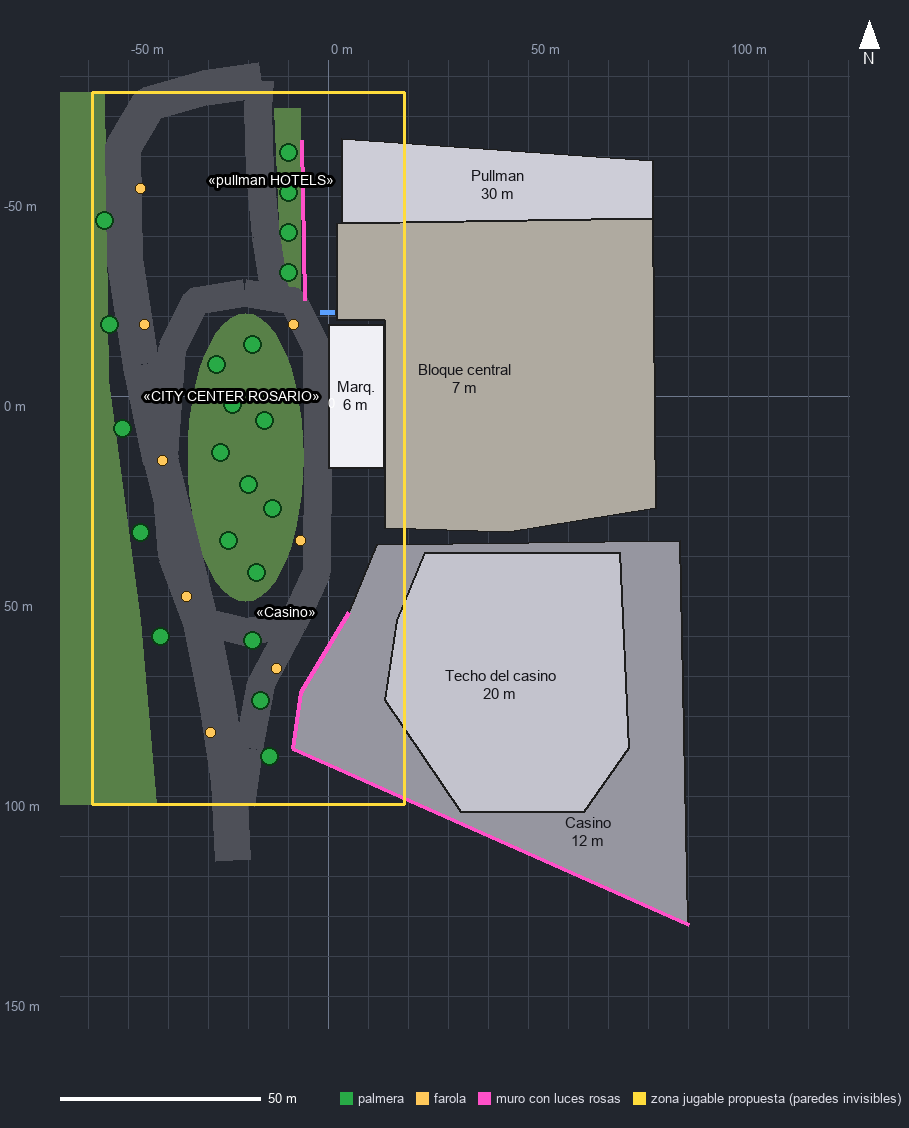
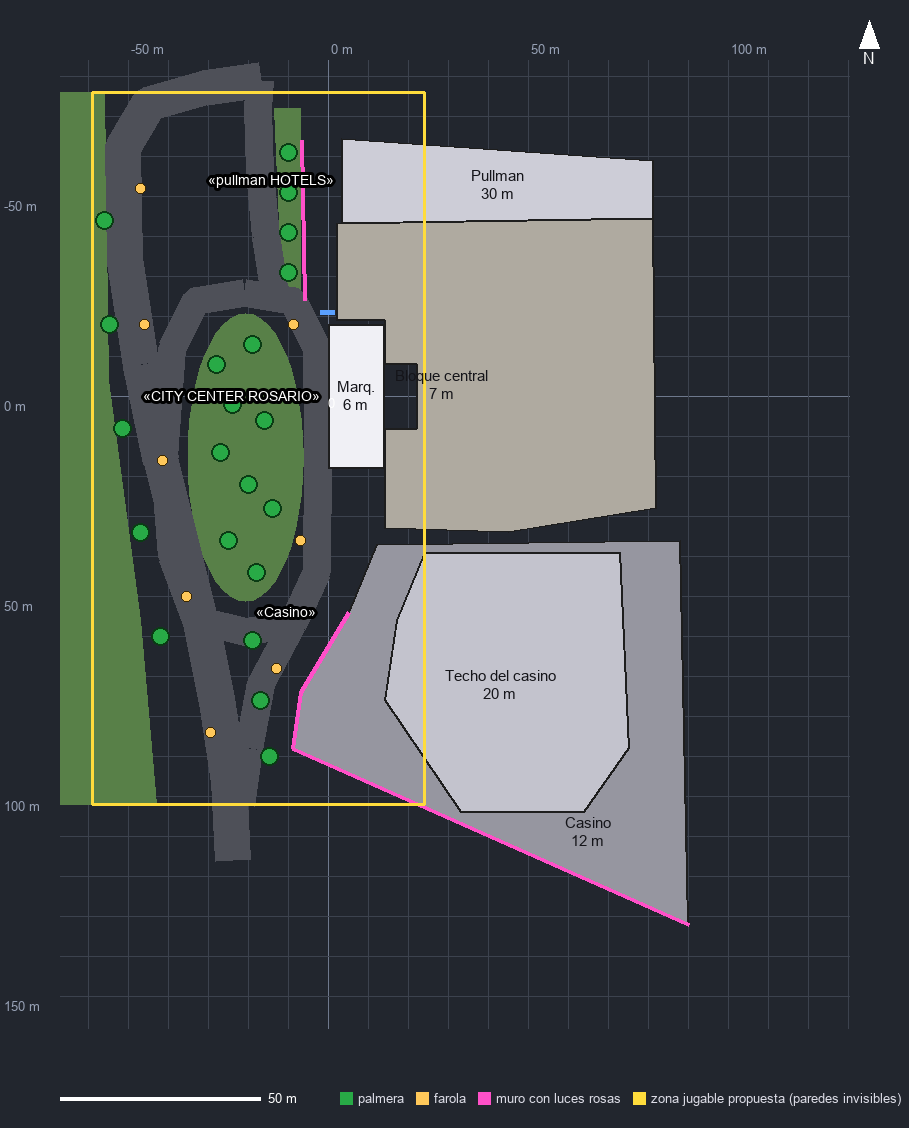
Entrada con hall y puertas, reflector del muro y placas en los bloques
- Entrada bajo la marquesina: vidriera alta y un hall de verdad (piso,
  cielorraso iluminado, mostrador redondo, luz cálida) con dos puertas
  corredizas que se abren al acercarse (src/escenario/entrada.ts).
- La luz que tiñe al personaje es un reflector apoyado en el muro que lo
  apunta: ya no deja un foco en la pared.
- Bloque central, casino y su techo con las placas de piedra de los muros.

Changed region(s): [[0.4004, 0.0931, 0.5545, 0.7137]]

diff --git a/src/escenario/entrada.ts b/src/escenario/entrada.ts
@@ -1,0 +1,187 @@
+import * as THREE from 'three';
+import { caraVidriera } from './hotel';
+
+// La entrada bajo la marquesina, como en la foto de día: una vidriera alta de punta a punta y, en el
+// medio, un hall de verdad detrás del vidrio (piso de piedra, cielorraso iluminado, el mostrador
+// redondo de recepción), con dos puertas corredizas que se abren solas cuando el jugador se acerca.
+// Se puede entrar al hall. El bloque central tiene la muesca del hall en el plano (city-center.json).
+
+const VIDRIO = { color: 0x9fb4c8, opacidad: 0.2 };
+const MARCO = 0x5d6066;
+const PUERTA = { ancho: 2.4, alto: 2.8, corre: 1.1, abre: 3.5, velocidad: 3 };
+const TRAVESAÑO = 3.4;
+const CIELORRASO = 4.5;
+const MODULO = 2; // entre parantes
+
+export interface Entrada {
+  /** Dónde está la fachada (x) y de dónde a dónde va (z). */
+  x: number;
+  desde: number;
+  hasta: number;
+  alto: number;
+  /** El hall, en el medio: de dónde a dónde (z) y cuánto se mete (x). */
+  hall: { desde: number; hasta: number; fondo: number };
+}
+
+interface Puerta {
+  z: number;
+  hojas: THREE.Object3D[];
+  abierta: number;
+}
+
+/** Un rectángulo (x, z) como polígono de choque. */
+function caja(x0: number, x1: number, z0: number, z1: number): THREE.Vector2[] {
+  return [new THREE.Vector2(x0, z0), new THREE.Vector2(x1, z0), new THREE.Vector2(x1, z1), new THREE.Vector2(x0, z1)];
+}
+
+export function armarEntrada(e: Entrada) {
+  const grupo = new THREE.Group();
+  const solidos: THREE.Object3D[] = [];
+  const transparentes: THREE.Object3D[] = [];
+  const paredes: THREE.Vector2[][] = [];
+  const marco = new THREE.MeshStandardMaterial({ color: MARCO, metalness: 0.6, roughness: 0.4 });
+  const vidrio = new THREE.MeshStandardMaterial({
+    color: VIDRIO.color, transparent: true, opacity: VIDRIO.opacidad, roughness: 0.05, metalness: 0.2, depthWrite: false, side: THREE.DoubleSide,
+  });
+  const barra = (x: number, y: number, z: number, ax: number, ay: number, az: number) => {
+    const b = new THREE.Mesh(new THREE.BoxGeometry(ax, ay, az), marco);
+    b.position.set(x, y, z);
+    b.castShadow = true;
+    grupo.add(b);
+    return b;
+  };
+
+  // A los costados del hall, vidriera con el bloque detrás (pintada, con la luz de adentro).
+  for (const [z0, z1] of [[e.desde, e.hall.desde], [e.hall.hasta, e.hasta]]) {
+    const ancho = z1 - z0;
+    const tx = caraVidriera(ancho, e.alto);
+    const cara = new THREE.Mesh(new THREE.PlaneGeometry(ancho, e.alto), new THREE.MeshStandardMaterial({ ...tx, emissive: 0xffffff, roughness: 0.6 }));
+    cara.rotation.y = -Math.PI / 2; // de cara a la calle (-x)
+    cara.position.set(e.x - 0.03, e.alto / 2, (z0 + z1) / 2);
+    cara.receiveShadow = true;
+    grupo.add(cara);
+  }
+
+  // El hall: piso, cielorraso con luz, el bloque encima (la muesca dejaba el techo abierto), la pared
+  // del fondo y el mostrador redondo.
+  const { desde: h0, hasta: h1, fondo } = e.hall;
+  const xFondo = e.x + fondo;
+  const anchoHall = h1 - h0;
+  const medio = (h0 + h1) / 2;
+  const piso = new THREE.Mesh(new THREE.PlaneGeometry(fondo, anchoHall), new THREE.MeshStandardMaterial({ color: 0xd9d3c8, roughness: 0.35 }));
+  piso.rotation.x = -Math.PI / 2;
+  piso.position.set(e.x + fondo / 2, 0.015, medio);
+  piso.receiveShadow = true;
+  grupo.add(piso);
+  const cielo = new THREE.Mesh(new THREE.PlaneGeometry(fondo, anchoHall), new THREE.MeshStandardMaterial({
+    color: 0xf3ead8, emissive: 0xffe2b0, emissiveIntensity: 0.55,
+  }));
+  cielo.rotation.x = Math.PI / 2; // mirando para abajo
+  cielo.position.set(e.x + fondo / 2, CIELORRASO, medio);
+  grupo.add(cielo);
+  const encima = new THREE.Mesh(new THREE.BoxGeometry(fondo, e.alto - CIELORRASO, anchoHall), new THREE.MeshStandardMaterial({ color: 0xa9a59c, roughness: 0.9 }));
+  encima.position.set(e.x + fondo / 2, (CIELORRASO + e.alto) / 2 + 0.001, medio);
+  encima.castShadow = true;
+  grupo.add(encima);
+  const fondoMat = new THREE.MeshStandardMaterial({ color: 0xa8774a, emissive: 0x6b3f1c, emissiveIntensity: 0.35, roughness: 0.7 });
+  const paredFondo = new THREE.Mesh(new THREE.PlaneGeometry(anchoHall, CIELORRASO), fondoMat);
+  paredFondo.rotation.y = -Math.PI / 2;
+  paredFondo.position.set(xFondo - 0.02, CIELORRASO / 2, medio);
+  grupo.add(paredFondo);
+  solidos.push(paredFondo);
+  const mostrador = new THREE.Mesh(new THREE.CylinderGeometry(1.7, 1.7, 1.1, 40), new THREE.MeshStandardMaterial({ color: 0xf1efe9, roughness: 0.4 }));
+  mostrador.position.set(e.x + fondo * 0.6, 0.55, medio);
+  mostrador.castShadow = mostrador.receiveShadow = true;
+  grupo.add(mostrador);
+  solidos.push(mostrador);
+  const borde = new THREE.Mesh(new THREE.TorusGeometry(1.72, 0.04, 8, 48), new THREE.MeshStandardMaterial({
+    color: 0xffd9a0, emissive: 0xffc070, emissiveIntensity: 1.2,
+  }));
+  borde.rotation.x = Math.PI / 2;
+  borde.position.set(mostrador.position.x, 1.1, medio);
+  grupo.add(borde);
+  // Una luz cálida adentro: ilumina al jugador en el hall y se derrama por el vidrio.
+  const luz = new THREE.PointLight(0xffd6a0, 40, 16, 2);
+  luz.position.set(e.x + fondo / 2, CIELORRASO - 0.4, medio);
+  grupo.add(luz);
+  const bordeMostrador = new THREE.Vector2(mostrador.position.x, medio);
+
+  // El frente del hall: vidrio de piso a techo entre parantes, con dos puertas corredizas.
+  const puertas: Puerta[] = [];
+  const zPuertas = [medio - 2, medio + 2];
+  const frente = new THREE.Mesh(new THREE.PlaneGeometry(anchoHall, e.alto - PUERTA.alto), vidrio);
+  frente.rotation.y = -Math.PI / 2;
+  frente.position.set(e.x, (PUERTA.alto + e.alto) / 2, medio);
+  grupo.add(frente);
+  transparentes.push(frente);
+  // Abajo, vidrio fijo salvo los vanos de las puertas.
+  const cortes = [h0, ...zPuertas.flatMap((z) => [z - PUERTA.ancho / 2, z + PUERTA.ancho / 2]), h1];
+  for (let i = 0; i < cortes.length; i += 2) {
+    const [z0, z1] = [cortes[i], cortes[i + 1]];
+    const fijo = new THREE.Mesh(new THREE.PlaneGeometry(z1 - z0, PUERTA.alto), vidrio);
+    fijo.rotation.y = -Math.PI / 2;
+    fijo.position.set(e.x, PUERTA.alto / 2, (z0 + z1) / 2);
+    grupo.add(fijo);
+    transparentes.push(fijo);
+    paredes.push(caja(e.x - 0.12, e.x + 0.12, z0, z1));
+  }
+  for (let z = h0; z <= h1 + 0.01; z += MODULO) {
+    if (zPuertas.some((zp) => Math.abs(z - zp) < PUERTA.ancho / 2 + 0.05)) continue;
+    barra(e.x, e.alto / 2, z, 0.12, e.alto, 0.08);
+  }
+  barra(e.x, PUERTA.alto + 0.04, medio, 0.14, 0.1, anchoHall);
+  barra(e.x, TRAVESAÑO + 1.2, medio, 0.12, 0.08, anchoHall);
+  barra(e.x, e.alto - 0.06, medio, 0.14, 0.12, anchoHall);
+  for (const zp of zPuertas) {
+    // Las jambas y dos hojas de vidrio con marco que corren hacia los costados.
+    barra(e.x, PUERTA.alto / 2, zp - PUERTA.ancho / 2, 0.14, PUERTA.alto, 0.1);
+    barra(e.x, PUERTA.alto / 2, zp + PUERTA.ancho / 2, 0.14, PUERTA.alto, 0.1);
+    const hojas = [-1, 1].map((lado) => {
+      const hoja = new THREE.Group();
+      const ancho = PUERTA.ancho / 2;
+      const cristal = new THREE.Mesh(new THREE.PlaneGeometry(ancho - 0.08, PUERTA.alto - 0.1), vidrio);
+      cristal.rotation.y = -Math.PI / 2;
+      hoja.add(cristal);
+      transparentes.push(cristal);
+      for (const [y, h] of [[PUERTA.alto / 2 - 0.03, 0.06], [-PUERTA.alto / 2 + 0.05, 0.1]] as const) {
+        const b = new THREE.Mesh(new THREE.BoxGeometry(0.06, h, ancho), marco);
+        b.position.y = y;
+        hoja.add(b);
+      }
+      for (const dz of [-ancho / 2 + 0.03, ancho / 2 - 0.03]) {
+        const b = new THREE.Mesh(new THREE.BoxGeometry(0.06, PUERTA.alto, 0.06), marco);
+        b.position.z = dz;
+        hoja.add(b);
+      }
+      hoja.position.set(e.x - 0.08, PUERTA.alto / 2, zp + (lado * ancho) / 2);
+      hoja.userData.cerrada = hoja.position.z;
+      hoja.userData.lado = lado;
+      grupo.add(hoja);
+      return hoja;
+    });
+    puertas.push({ z: zp, hojas, abierta: 0 });
+  }
+
+  let antes = -1;
+  return {
+    grupo, solidos, transparentes,
+    /** Las paredes fijas del frente (las del hall son las de la muesca del bloque, en el plano). */
+    paredes,
+    /** Cada cuadro: las puertas se abren con el jugador cerca y se cierran cuando se va. */
+    actualizar(t: number, jugador: THREE.Vector3): void {
+      const dt = antes < 0 ? 0 : Math.min(0.1, t - antes);
+      antes = t;
+      for (const p of puertas) {
+        const cerca = Math.hypot(jugador.x - e.x, jugador.z - p.z) < PUERTA.abre;
+        p.abierta = THREE.MathUtils.clamp(p.abierta + (cerca ? 1 : -1) * dt * PUERTA.velocidad, 0, 1);
+        const corre = THREE.MathUtils.smootherstep(p.abierta, 0, 1) * PUERTA.corre;
+        for (const h of p.hojas) h.position.z = h.userData.cerrada + h.userData.lado * corre;
+      }
+    },
+    /** Si (x, z) choca con el mostrador o con una puerta que no está bien abierta. */
+    bloquea(x: number, z: number, radio: number): boolean {
+      if (Math.hypot(x - bordeMostrador.x, z - bordeMostrador.y) < 1.7 + radio) return true;
+      return puertas.some((p) => p.abierta < 0.8 && Math.abs(x - e.x) < 0.12 + radio && Math.abs(z - p.z) < PUERTA.ancho / 2 + radio);
+    },
+  };
+}

diff --git a/src/escenario/muros.ts b/src/escenario/muros.ts
@@ -19,11 +19,13 @@ const AURA = { tamaño: 7.5, fuerza: 0.85 };
 // Sin pasar de 1: más brillantes, el tono mapeado los lavaba hacia el blanco.
 const COLORES = { rosa: new THREE.Color(1, 0.08, 0.58), purpura: new THREE.Color(0.55, 0.04, 1), brillo: 1 };
 const RITMO = { desde: 6, hasta: 18 };
-// Las luces no iluminan (son cientos): una sola luz de verdad por muro va pegada al jugador, del lado
-// del muro, con el color y la fuerza de las luces del punto del muro más cerca de él, y se apaga a
-// medida que se aleja (a `lejos` metros del muro ya no está). Puesta contra el muro le dejaba un foco
-// encima que no se sabía de dónde salía.
-const REFLEJO = { alcance: 3, fuerza: 0.7, distancia: 4, alLado: 0.7, alto: 1.3, lejos: 6 };
+// Las luces no iluminan (son cientos): una sola luz de verdad por muro, un reflector apoyado en el muro
+// en el punto más cerca del jugador que lo apunta a él, con el color y la fuerza de las luces de ahí.
+// Ilumina al personaje y el piso delante, nunca la pared (queda detrás del reflector): una luz que
+// rodeaba al jugador le dejaba un foco a la pared cuando él se le acercaba. Se apaga a medida que el
+// jugador se aleja (a `lejos` metros ya no está); la fuerza crece con la distancia para que a él le
+// llegue lo mismo.
+const REFLEJO = { alcance: 3, fuerza: 0.7, distancia: 9, afuera: 0.15, alto: 1.4, pecho: 1.1, lejos: 6, cerca: 0.7 };
 // Las luces son discos: cilindros chatos con la cara hacia afuera del muro, medio metidos en él, cada
 // uno dentro de un aro del material del muro que sobresale más que el disco (la luz queda contenida).
 const DISCO = { espesor: 0.07 };
@@ -106,8 +108,9 @@ function azar(semilla: number): () => number {
   };
 }
 
-/** Placas de piedra con juntas, para repetir cada PLACA. */
-function texturaPlacas(): THREE.CanvasTexture {
+/** Placas de piedra con juntas, para repetir cada PLACA. Con `porMetro`, ya escalada para
+ * coordenadas de textura en metros (las de los bloques extruidos). */
+export function texturaPlacas(porMetro = false): THREE.CanvasTexture {
   const w = 192;
   const h = 96;
   const c = document.createElement('canvas');
@@ -123,6 +126,7 @@ function texturaPlacas(): THREE.CanvasTexture {
   t.colorSpace = THREE.SRGBColorSpace;
   t.wrapS = t.wrapT = THREE.RepeatWrapping;
   t.anisotropy = 8;
+  if (porMetro) t.repeat.set(1 / PLACA.ancho, 1 / PLACA.alto);
   return t;
 }
 
@@ -255,8 +259,9 @@ export function armarMuro(m: Muro): {
     vel: (Math.PI * 2) / THREE.MathUtils.lerp(RITMO.desde, RITMO.hasta, r()), fase: r() * Math.PI * 2,
   }));
   const tinte = new THREE.Color();
-  const reflejo = new THREE.PointLight(COLORES.rosa, 0, REFLEJO.distancia, 2);
-  grupo.add(reflejo);
+  const reflejo = new THREE.SpotLight(COLORES.rosa, 0, REFLEJO.distancia, 0.7, 1, 2);
+  grupo.add(reflejo, reflejo.target);
+  let normalCerca = new THREE.Vector2(1, 0);
   const cerca = new THREE.Vector3();
   const mezcla = new THREE.Color();
   const animar = (t: number, jugador?: THREE.Vector3) => {
@@ -272,6 +277,7 @@ export function armarMuro(m: Muro): {
         if (d < mejor) {
           mejor = d;
           cerca.set(q.x, 0, q.y);
+          normalCerca = ns[i - 1].clone().lerp(ns[i], u).normalize();
         }
       }
     }
@@ -296,13 +302,12 @@ export function armarMuro(m: Muro): {
     auras.instanceColor = luces.instanceColor;
     if (peso > 0 && jugador && mejor < REFLEJO.lejos) {
       reflejo.color.setRGB(mezcla.r / peso, mezcla.g / peso, mezcla.b / peso);
-      // Al lado del jugador, hacia el muro.
-      const hacia = new THREE.Vector3(cerca.x - jugador.x, 0, cerca.z - jugador.z);
-      const largo = hacia.length();
-      if (largo > 1e-3) hacia.multiplyScalar(Math.min(REFLEJO.alLado, largo * 0.5) / largo);
-      reflejo.position.set(jugador.x + hacia.x, jugador.y + REFLEJO.alto, jugador.z + hacia.z);
+      // En el muro (apenas por fuera), apuntando al pecho del jugador.
+      reflejo.position.set(cerca.x - normalCerca.x * REFLEJO.afuera, jugador.y + REFLEJO.alto, cerca.z - normalCerca.y * REFLEJO.afuera);
+      reflejo.target.position.set(jugador.x, jugador.y + REFLEJO.pecho, jugador.z);
+      const hasta = Math.max(REFLEJO.cerca, reflejo.position.distanceTo(reflejo.target.position));
       const lejania = 1 - mejor / REFLEJO.lejos;
-      reflejo.intensity = REFLEJO.fuerza * Math.min(peso, 6) * lejania * lejania;
+      reflejo.intensity = REFLEJO.fuerza * Math.min(peso, 6) * (hasta * hasta) / (REFLEJO.cerca * REFLEJO.cerca) * lejania * lejania;
     } else {
       reflejo.intensity = 0;
     }

diff --git a/src/escenario/cityCenter.ts b/src/escenario/cityCenter.ts
@@ -2,7 +2,8 @@ import * as THREE from 'three';
 import plano from './city-center.json';
 import { letrasEnRelieve } from './letras';
 import { armarHotel } from './hotel';
-import { armarMuro, profundidadAuras } from './muros';
+import { armarMuro, profundidadAuras, texturaPlacas } from './muros';
+import { armarEntrada } from './entrada';
 
 // La maqueta del City Center Rosario: bloques grises a escala real armados con el plano
 // (city-center.json, calcado del satélite; tools/plano/dibujar.py lo dibuja). Sirve para caminarlo y
@@ -116,6 +117,7 @@ export class CityCenter {
   private readonly paredes: THREE.Vector2[][] = [];
   private readonly postes: { p: THREE.Vector2; r: number }[] = [];
   private readonly zona: THREE.Vector2[];
+  private readonly entrada: ReturnType<typeof armarEntrada>;
 
   constructor() {
     const mat = (color: number) => new THREE.MeshStandardMaterial({ color, roughness: 0.95 });
@@ -142,6 +144,7 @@ export class CityCenter {
       this.grupo.add(cinta(c.eje_px.map(m), c.ancho, !!c.cerrada, 0.04, asfalto));
     }
 
+    const placas = texturaPlacas(true);
     const colores: Record<string, number> = {
       hotel: 0xc9c9d2, deck: 0xa9a59c, marquesina: 0xeeeef2, casino: 0x96969f, techo_casino: 0xbdbdc8,
     };
@@ -149,7 +152,9 @@ export class CityCenter {
     for (const e of plano.edificios as Edificio[]) altos.set(e.id, e.alto);
     for (const e of plano.edificios as Edificio[]) {
       const puntos = e.poligono_px.map(m);
+      // Con las placas de piedra de los muros (las coordenadas de textura de la extrusión van en metros).
       const material = mat(colores[e.id] ?? 0xaaaaaa);
+      if (!e.techo) material.map = placas;
       if (e.techo) {
         this.marquesina(puntos, e.alto, material);
         continue;
@@ -167,6 +172,17 @@ export class CityCenter {
       this.solidos.push(malla);
       if (!e.sobre) this.paredes.push(puntos);
     }
+
+    // La entrada: la vidriera bajo la marquesina y el hall con sus puertas.
+    const en = plano.entrada;
+    this.entrada = armarEntrada({
+      x: m([en.x_px, 0]).x, desde: m([0, en.desde_px]).y, hasta: m([0, en.hasta_px]).y, alto: en.alto,
+      hall: { desde: m([0, en.hall_px.desde]).y, hasta: m([0, en.hall_px.hasta]).y, fondo: (en.hall_px.fondo - en.x_px) * ESC },
+    });
+    this.grupo.add(this.entrada.grupo);
+    this.solidos.push(...this.entrada.solidos);
+    this.transparentes.push(...this.entrada.transparentes);
+    this.paredes.push(...this.entrada.paredes);
 
     // Los muros blancos con luces rosas (la base del hotel y el frente del casino).
     plano.muros_luces.forEach((mu, k) => {
@@ -340,12 +356,14 @@ export class CityCenter {
   /** Cada cuadro, con el tiempo en segundos y dónde está el jugador (las luces de los muros y su reflejo). */
   actualizar(t: number, jugador: THREE.Vector3): void {
     for (const animar of this.animaciones) animar(t, jugador);
+    this.entrada.actualizar(t, jugador);
   }
 
   /** Si el jugador puede pararse en (x, z): dentro de la zona y fuera de edificios, palmeras y postes. */
   libre(x: number, z: number): boolean {
     const p = new THREE.Vector2(x, z);
     if (!dentro(p, this.zona) || distanciaBorde(p, this.zona) < RADIO_JUGADOR) return false;
+    if (this.entrada.bloquea(x, z, RADIO_JUGADOR)) return false;
     for (const pared of this.paredes) {
       if (dentro(p, pared) || distanciaBorde(p, pared) < RADIO_JUGADOR) return false;
     }

diff --git a/src/escenario/hotel.ts b/src/escenario/hotel.ts
@@ -148,9 +148,9 @@ function caraCiega(ancho: number) {
   return texturas(l);
 }
 
-/** La planta baja: vidrio entre parantes, con la luz cálida de adentro. */
-function caraVidriera(ancho: number) {
-  const l = lienzos(ancho, PLANTA_BAJA);
+/** Una vidriera de `alto` metros: vidrio entre parantes, con la luz cálida de adentro. */
+export function caraVidriera(ancho: number, alto = PLANTA_BAJA) {
+  const l = lienzos(ancho, alto);
   const { color: g, luz } = l;
   g.fillStyle = '#3a4350';
   g.fillRect(0, 0, g.canvas.width, g.canvas.height);
@@ -159,13 +159,13 @@ function caraVidriera(ancho: number) {
   g.fillStyle = '#9a9890';
   luz.fillStyle = '#000';
   for (let x = 0; x <= ancho; x += 2.2) {
-    rect(g, l, x - 0.07, 0, 0.14, PLANTA_BAJA);
-    rect(luz, l, x - 0.07, 0, 0.14, PLANTA_BAJA);
+    rect(g, l, x - 0.07, 0, 0.14, alto);
+    rect(luz, l, x - 0.07, 0, 0.14, alto);
   }
   rect(g, l, 0, 3.6, ancho, 0.12);
   rect(luz, l, 0, 3.6, ancho, 0.12);
-  rect(g, l, 0, PLANTA_BAJA - 0.5, ancho, 0.5);
-  rect(luz, l, 0, PLANTA_BAJA - 0.5, ancho, 0.5);
+  rect(g, l, 0, alto - 0.5, ancho, 0.5);
+  rect(luz, l, 0, alto - 0.5, ancho, 0.5);
   return texturas(l);
 }
 
